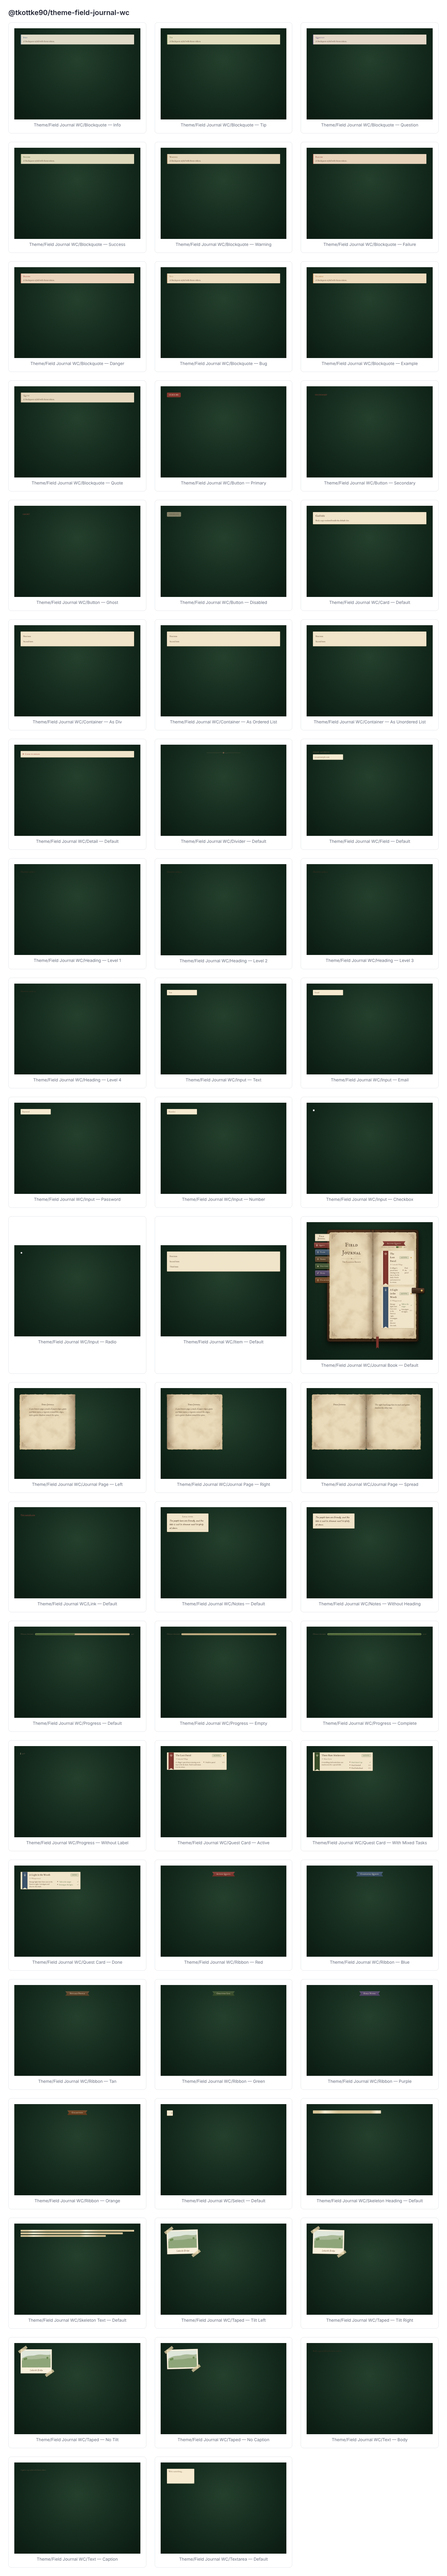
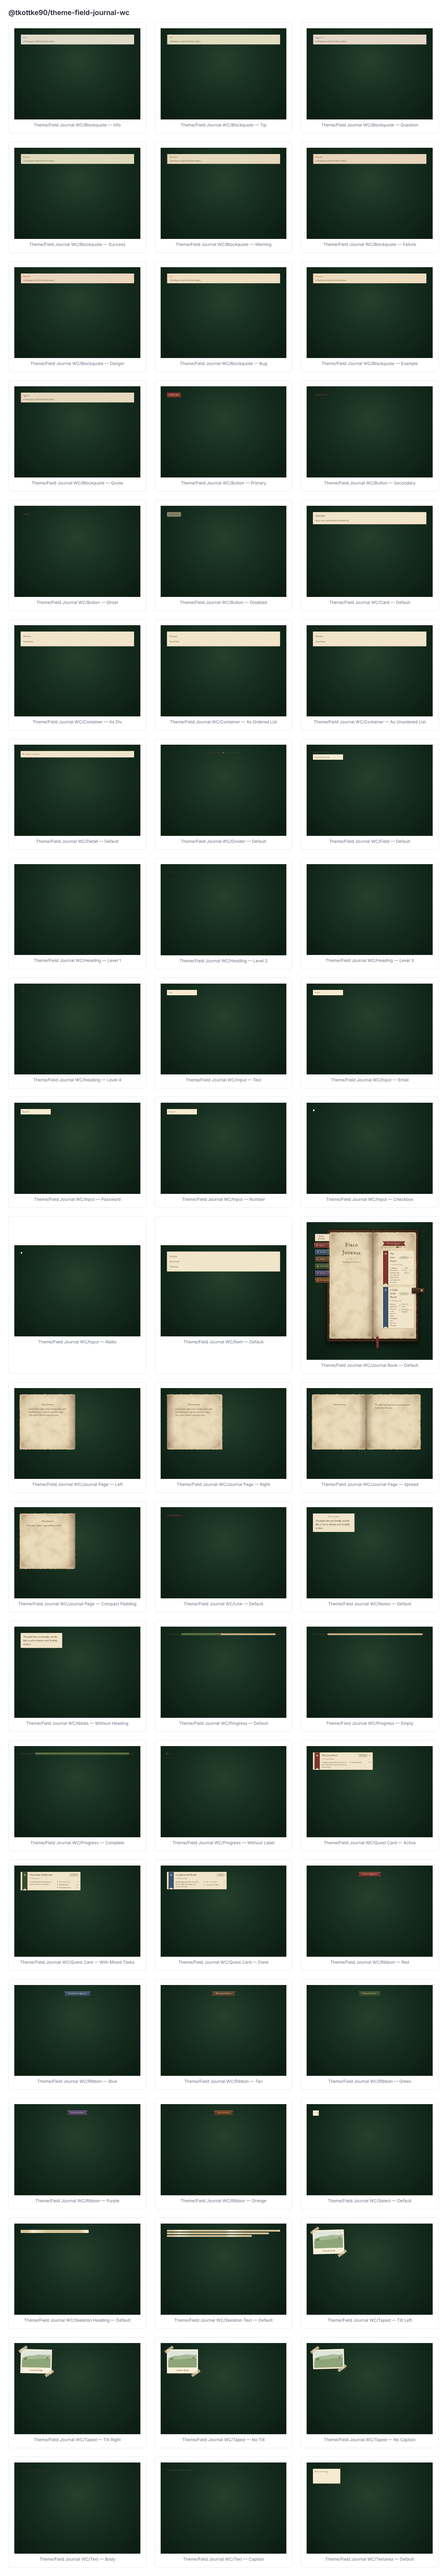
Make theme-journal-page's content padding themeable via --page-padding
Exposes the inner .content padding as --page-padding (default 68px 66px
74px, in themes/field-journal/theme.css), so a consumer who finds the
default margin too heavy can override it per-instance with
style="--page-padding: …" (any 1-4 value padding shorthand) instead of
being stuck with a hardcoded value. Adds a CompactPadding story
demonstrating the override, and verified against a real render that the
override actually reaches the .content wrapper's computed padding.

Claude-Session: https://claude.ai/code/session_01Fmf8fZmUDJ995sBxXgiYqC

diff --git a/packages/theme-field-journal-wc/src/theme-journal-page.ts b/packages/theme-field-journal-wc/src/theme-journal-page.ts
@@ -48,12 +48,11 @@ export class ThemeJournalPage extends LitElement {
        * does exactly this (see .storybook/preview.ts).
        */
       .content {
-        /* Corner flourishes are 38px boxes inset 12px from each edge (see
-           .page-corner below), so they reach 50px in from every edge.
-           Padding needs real clearance past that on every side, not just
-           enough to avoid a hard overlap — content flush against a
-           flourish still reads as crowded. */
-        padding: 68px 66px 74px;
+        /* Themeable — see --page-padding in themes/field-journal/theme.css
+           for the default and why it's sized the way it is. Override
+           per-instance with style="--page-padding: …" on a
+           <theme-journal-page> (any 1-4 value padding shorthand works). */
+        padding: var(--page-padding);
       }
       :host::before,
       :host::after {

diff --git a/packages/theme-field-journal-wc/src/theme-journal-page.stories.ts b/packages/theme-field-journal-wc/src/theme-journal-page.stories.ts
@@ -47,3 +47,21 @@ export const Spread: Story = {
     </div>
   `,
 };
+
+/** Overriding --page-padding (any 1-4 value padding shorthand) for a lighter margin than the default. */
+export const CompactPadding: Story = {
+  render: (args) => html`
+    <div style="max-width: 420px;">
+      <theme-journal-page side=${args["side"]} style="--page-padding: 48px 46px 54px;">
+        <h1
+          style="font-family: var(--font-title); font-weight: 400; margin: 0 0 8px; text-align: center;"
+        >
+          Field Journal
+        </h1>
+        <p style="font-family: var(--font-sans); color: var(--color-text); margin: 0;">
+          Same page, a lighter --page-padding override.
+        </p>
+      </theme-journal-page>
+    </div>
+  `,
+};

diff --git a/packages/theme-field-journal-wc/src/theme-journal-page.test.ts b/packages/theme-field-journal-wc/src/theme-journal-page.test.ts
@@ -38,13 +38,15 @@ describe("theme-journal-page", () => {
     el.remove();
   });
 
-  it("renders slotted content", async () => {
+  it("renders slotted content inside the padded .content wrapper, not on :host", async () => {
     const el = document.createElement("theme-journal-page") as ThemeJournalPage;
     el.textContent = "Page body";
     document.body.appendChild(el);
     await el.updateComplete;
 
-    expect(el.shadowRoot?.querySelector("slot")).not.toBeNull();
+    const slot = el.shadowRoot?.querySelector("slot");
+    expect(slot).not.toBeNull();
+    expect(slot?.parentElement?.classList.contains("content")).toBe(true);
     expect(el.textContent?.trim()).toBe("Page body");
 
     el.remove();

diff --git a/themes/field-journal/theme.css b/themes/field-journal/theme.css
@@ -70,6 +70,13 @@
   --shadow-taped: 0 3px 8px rgba(70, 45, 20, 0.3);
   --shadow-book: 0 30px 60px rgba(0, 0, 0, 0.55), 0 8px 18px rgba(0, 0, 0, 0.35);
 
+  /* theme-journal-page's inner content padding (any 1-4 value CSS
+     `padding` shorthand). Defaults to clearing the 38px corner flourishes
+     (inset 12px, so they reach 50px in) with real breathing room on every
+     side — override per-instance with `style="--page-padding: …"` on a
+     <theme-journal-page>, or here, for a lighter/heavier margin. */
+  --page-padding: 68px 66px 74px;
+
   /* ---- Field-journal literals (table, leather, paper, ink) ---- */
   --table: #1d3a28;
   --table-dark: #0e2217;

diff --git a/packages/theme-field-journal-wc/README.md b/packages/theme-field-journal-wc/README.md
@@ -90,6 +90,16 @@ this theme adds the book itself:
 | `theme-notes`        | A cream card with ruled lines for handwritten margin notes                                                            |
 | `theme-divider`      | An ornamental divider for under page titles / between sections                                                        |
 
+`theme-journal-page`'s inner content padding is themeable: it reads
+`--page-padding` (default `68px 66px 74px`, set in
+`themes/field-journal/theme.css`, sized to clear the corner flourishes with
+real breathing room). Override it per-instance — any 1-4 value `padding`
+shorthand works — for a lighter or heavier margin:
+
+```html
+<theme-journal-page style="--page-padding: 48px 46px 54px;">…</theme-journal-page>
+```
+
 `theme-journal-book`'s tabs, `theme-ribbon` and `theme-quest-card`'s pennant
 all take the same `color` enum — `"red" | "blue" | "tan" | "green" |
 "purple" | "orange"` — one per section (Quests/Places/People/Creatures/
